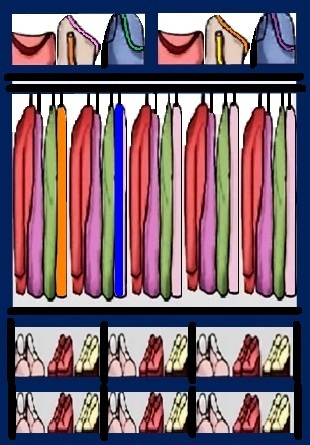
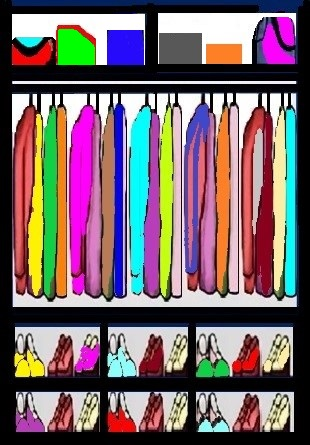
Replace a picture

diff --git a/css/style.css b/css/style.css
@@ -190,7 +190,7 @@ img {
 }
 
 .drawing:nth-of-type(3) {
-  background: url(../assets/bus.jpg);
+  background: url(../assets/car.jpg);
   transform: rotateY(270deg) translateZ(171px);
 }
 
